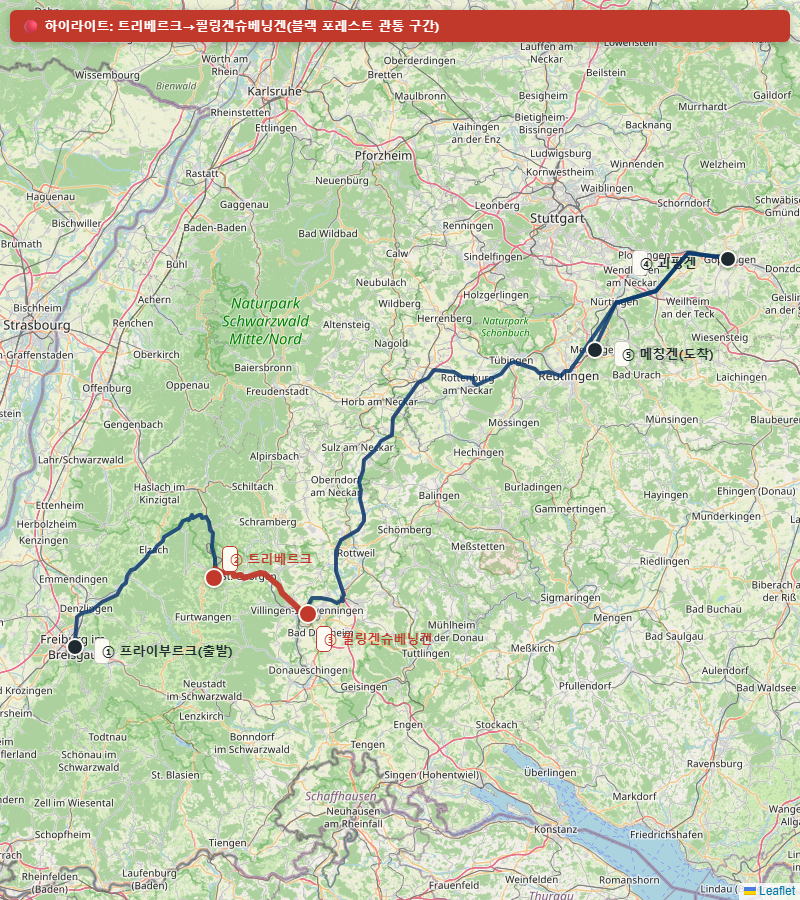
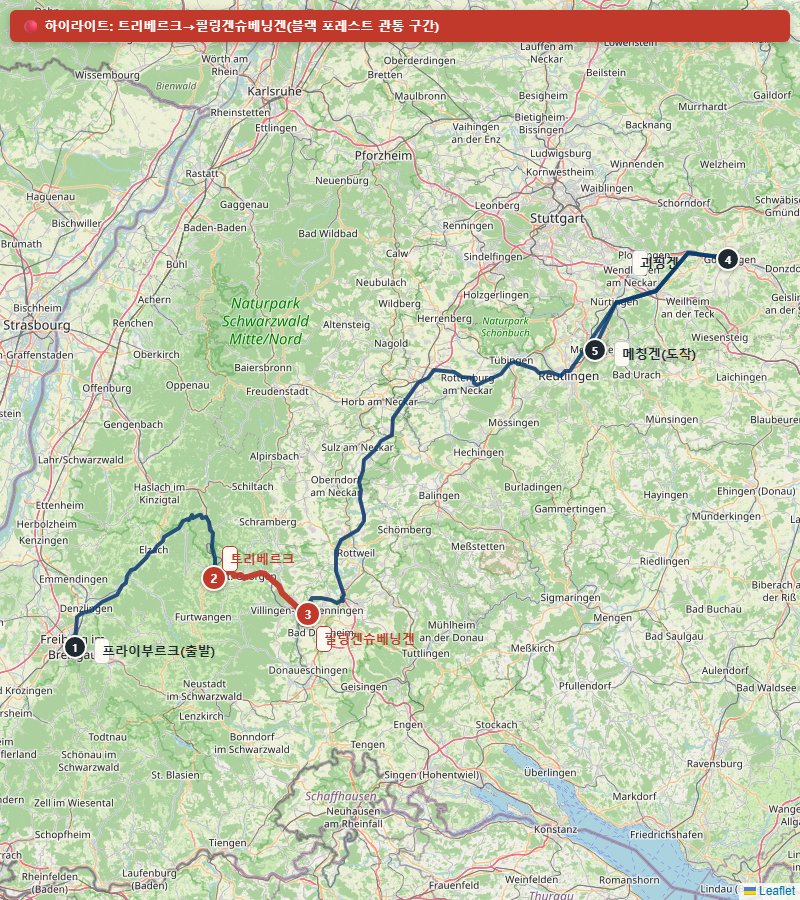
블랙 포레스트 안 지도 번호 렌더링 방식 근본 수정 — 유니코드 원문자 대신 CSS 원형+일반 숫자로 교체
기존에는 도시 이름표 텍스트 안에 유니코드 원문자(①②③...)를 그대로 넣어뒀는데, 이 글자가 기기·폰트에 따라 이모지 스타일의 큰 그림문자로 렌더링되면서 라벨 박스 padding/line-height를 무시하고 위아래로 삐져나와 "중간이 잘린 것처럼" 보이는 문제가 있었음(데스크톱 크롬에서는 작게 렌더링돼 재현이 안 됐음). 번호를 핀 마커 자체에 넣은 CSS 원형 배지(1,2,3 평문 숫자)로 옮기고, 도시 이름표에서는 원문자를 완전히 제거해 폰트 의존성을 없앰.

diff --git a/germany-roadtrip-planner.html b/germany-roadtrip-planner.html
@@ -3583,7 +3583,7 @@ document.addEventListener('DOMContentLoaded', function(){
       <div style="border:1px solid var(--line);border-radius:var(--radius);overflow:hidden;margin-bottom:0.8rem;">
         <div style="padding:0.4rem 1rem;background:#6a3d9a;color:#fff;font-weight:800;font-size:0.86rem;">안 1(가볍게 걷기) · 프라이부르크 → 트리베르크(폭포 산책) → 필링겐슈베닝겐 → 괴핑겐 → 메칭겐</div>
         <div style="border-bottom:1px solid var(--line);">
-          <img src="images/routes/day6_opt1.png?v=4" alt="안1 동선 지도 — 프라이부르크에서 트리베르크·필링겐슈베닝겐을 거쳐 괴핑겐·메칭겐까지, 트리베르크 폭포에서 가볍게 산책 후 필링겐슈베닝겐 방면 이동(안2와 동일 경로)" loading="lazy" style="width:100%;height:auto;display:block;" width="800" height="900">
+          <img src="images/routes/day6_opt1.png?v=5" alt="안1 동선 지도 — 프라이부르크에서 트리베르크·필링겐슈베닝겐을 거쳐 괴핑겐·메칭겐까지, 트리베르크 폭포에서 가볍게 산책 후 필링겐슈베닝겐 방면 이동(안2와 동일 경로)" loading="lazy" style="width:100%;height:auto;display:block;" width="800" height="900">
         </div>
         <div style="padding:0.8rem 1rem;">
           <p class="food-loc">경로 자체는 아래 안2(기준안)와 완전히 동일 — B31로 <a href="https://www.google.com/maps/search/?api=1&query=Triberg" target="_blank" rel="noopener">트리베르크(Triberg)</a>까지 간 뒤 A81 방면으로 <a href="https://www.google.com/maps/search/?api=1&query=Villingen-Schwenningen" target="_blank" rel="noopener">필링겐슈베닝겐</a>을 지나 직행합니다. 차이는 트리베르크에서 차만 세우고 지나치지 않고, <a href="https://www.google.com/maps/search/?api=1&query=Triberger+Wasserfälle" target="_blank" rel="noopener">트리베르크 폭포(Triberger Wasserfälle, 독일에서 가장 높은 폭포·163m 7단 낙차)</a>를 가볍게 걷는다는 점뿐입니다. 주차장에서 매표소를 지나 첫 번째~두 번째 전망대까지 왕복하는 짧은 구간만 걸으면 되고, 전체 코스를 끝까지 오를 필요는 없습니다.</p>
@@ -3595,7 +3595,7 @@ document.addEventListener('DOMContentLoaded', function(){
       <div style="border:1px solid var(--line);border-radius:var(--radius);overflow:hidden;margin-bottom:0.8rem;">
         <div style="padding:0.4rem 1rem;background:#0b3c6e;color:#fff;font-weight:800;font-size:0.86rem;">안 2(기준안) · 프라이부르크 → 트리베르크 → 필링겐슈베닝겐 → 괴핑겐 → 메칭겐</div>
         <div style="border-bottom:1px solid var(--line);">
-          <img src="images/routes/day6_opt1.png?v=4" alt="안2 동선 지도 — 프라이부르크에서 트리베르크·필링겐슈베닝겐을 거쳐 괴핑겐·메칭겐까지, 트리베르크~필링겐슈베닝겐 블랙 포레스트 관통 구간 하이라이트" loading="lazy" style="width:100%;height:auto;display:block;" width="800" height="900">
+          <img src="images/routes/day6_opt1.png?v=5" alt="안2 동선 지도 — 프라이부르크에서 트리베르크·필링겐슈베닝겐을 거쳐 괴핑겐·메칭겐까지, 트리베르크~필링겐슈베닝겐 블랙 포레스트 관통 구간 하이라이트" loading="lazy" style="width:100%;height:auto;display:block;" width="800" height="900">
         </div>
         <div style="padding:0.8rem 1rem;">
           <p class="food-loc">블랙 포레스트 관광도로 4곳 중 어느 것도 정식으로 타지 않고, B31로 <a href="https://www.google.com/maps/search/?api=1&query=Triberg" target="_blank" rel="noopener">트리베르크(Triberg)</a>까지 간 뒤 A81 방면으로 <a href="https://www.google.com/maps/search/?api=1&query=Villingen-Schwenningen" target="_blank" rel="noopener">필링겐슈베닝겐(Villingen-Schwenningen)</a>을 지나 직행합니다. 하이라이트 구간(지도의 빨간 선)은 <b>시작 트리베르크 → 도착 필링겐슈베닝겐</b>이며, 그 자체가 &ldquo;블랙 포레스트 관통 구간&rdquo;입니다. 필링겐슈베닝겐은 도이체 우렌슈트라세 순환의 시작점이기도 해서, 그 루프를 정식으로 돌지 않아도 살짝 스치듯 지나갑니다.</p>
@@ -3607,7 +3607,7 @@ document.addEventListener('DOMContentLoaded', function(){
       <div style="border:1px solid var(--line);border-radius:var(--radius);overflow:hidden;margin-bottom:0.8rem;">
         <div style="padding:0.4rem 1rem;background:#2d6a4f;color:#fff;font-weight:800;font-size:0.86rem;">안 3(추천) · 프라이부르크 → 장크트메르겐 → 푸르트방겐 → 트리베르크 → 필링겐슈베닝겐 → 괴핑겐 → 메칭겐</div>
         <div style="border-bottom:1px solid var(--line);">
-          <img src="images/routes/day6_opt2.png?v=4" alt="안3 동선 지도 — 프라이부르크에서 장크트메르겐·푸르트방겐을 거쳐 트리베르크로 진입, 이후 필링겐슈베닝겐·괴핑겐·메칭겐까지, 장크트메르겐~트리베르크 구간 하이라이트" loading="lazy" style="width:100%;height:auto;display:block;" width="800" height="900">
+          <img src="images/routes/day6_opt2.png?v=5" alt="안3 동선 지도 — 프라이부르크에서 장크트메르겐·푸르트방겐을 거쳐 트리베르크로 진입, 이후 필링겐슈베닝겐·괴핑겐·메칭겐까지, 장크트메르겐~트리베르크 구간 하이라이트" loading="lazy" style="width:100%;height:auto;display:block;" width="800" height="900">
         </div>
         <div style="padding:0.8rem 1rem;">
           <p class="food-loc">트리베르크로 바로 가지 않고, 도이체 우렌슈트라세의 서쪽 절반을 먼저 돕니다. 하이라이트 구간(지도의 빨간 선)은 <b>시작 프라이부르크 → 경유 장크트메르겐(St. Märgen) → 경유 푸르트방겐(Furtwangen) → 도착 트리베르크</b>입니다. 시간 되면 장크트메르겐 인근 <a href="https://www.google.com/maps/search/?api=1&query=Sankt+Peter+Schwarzwald" target="_blank" rel="noopener">장크트페터(St. Peter)</a>(약 4.8km 더, 베네딕토회 수도원으로 유명)도 살짝 들를 수 있습니다.</p>
@@ -3619,7 +3619,7 @@ document.addEventListener('DOMContentLoaded', function(){
       <div style="border:1px solid var(--line);border-radius:var(--radius);overflow:hidden;">
         <div style="padding:0.4rem 1rem;background:#c0392b;color:#fff;font-weight:800;font-size:0.86rem;">안 4(전망 중시, 트리베르크 생략) · 프라이부르크 → 프로이덴슈타트 → 루에슈타인 → 무멜제 → 괴핑겐 → 메칭겐</div>
         <div style="border-bottom:1px solid var(--line);">
-          <img src="images/routes/day6_opt3.png?v=4" alt="안4 동선 지도 — 프라이부르크에서 프로이덴슈타트·루에슈타인·무멜제(호흐슈트라세 B500)를 거쳐 괴핑겐·메칭겐까지, 트리베르크는 생략" loading="lazy" style="width:100%;height:auto;display:block;" width="800" height="1000">
+          <img src="images/routes/day6_opt3.png?v=5" alt="안4 동선 지도 — 프라이부르크에서 프로이덴슈타트·루에슈타인·무멜제(호흐슈트라세 B500)를 거쳐 괴핑겐·메칭겐까지, 트리베르크는 생략" loading="lazy" style="width:100%;height:auto;display:block;" width="800" height="1000">
         </div>
         <div style="padding:0.8rem 1rem;">
           <p class="food-loc">트리베르크는 포기하고, 4곳 중 가장 유명한 슈바르츠발트-호흐슈트라세(B500)의 남쪽 절반만 탑니다. 하이라이트 구간(지도의 빨간 선)은 <b>시작 프라이부르크 → 경유 프로이덴슈타트(Freudenstadt) → 경유 루에슈타인(Ruhestein) → 도착 무멜제(Mummelsee)</b>입니다 — 무멜제는 전설이 깃든 화산 분화구 호수로, B500에서 가장 사진 많이 찍히는 포토스팟입니다. 이후 왔던 길을 되짚어 프로이덴슈타트 인근에서 동쪽으로 빠져 괴핑겐으로 향합니다.</p>

diff --git a/index.html b/index.html
@@ -3583,7 +3583,7 @@ document.addEventListener('DOMContentLoaded', function(){
       <div style="border:1px solid var(--line);border-radius:var(--radius);overflow:hidden;margin-bottom:0.8rem;">
         <div style="padding:0.4rem 1rem;background:#6a3d9a;color:#fff;font-weight:800;font-size:0.86rem;">안 1(가볍게 걷기) · 프라이부르크 → 트리베르크(폭포 산책) → 필링겐슈베닝겐 → 괴핑겐 → 메칭겐</div>
         <div style="border-bottom:1px solid var(--line);">
-          <img src="images/routes/day6_opt1.png?v=4" alt="안1 동선 지도 — 프라이부르크에서 트리베르크·필링겐슈베닝겐을 거쳐 괴핑겐·메칭겐까지, 트리베르크 폭포에서 가볍게 산책 후 필링겐슈베닝겐 방면 이동(안2와 동일 경로)" loading="lazy" style="width:100%;height:auto;display:block;" width="800" height="900">
+          <img src="images/routes/day6_opt1.png?v=5" alt="안1 동선 지도 — 프라이부르크에서 트리베르크·필링겐슈베닝겐을 거쳐 괴핑겐·메칭겐까지, 트리베르크 폭포에서 가볍게 산책 후 필링겐슈베닝겐 방면 이동(안2와 동일 경로)" loading="lazy" style="width:100%;height:auto;display:block;" width="800" height="900">
         </div>
         <div style="padding:0.8rem 1rem;">
           <p class="food-loc">경로 자체는 아래 안2(기준안)와 완전히 동일 — B31로 <a href="https://www.google.com/maps/search/?api=1&query=Triberg" target="_blank" rel="noopener">트리베르크(Triberg)</a>까지 간 뒤 A81 방면으로 <a href="https://www.google.com/maps/search/?api=1&query=Villingen-Schwenningen" target="_blank" rel="noopener">필링겐슈베닝겐</a>을 지나 직행합니다. 차이는 트리베르크에서 차만 세우고 지나치지 않고, <a href="https://www.google.com/maps/search/?api=1&query=Triberger+Wasserfälle" target="_blank" rel="noopener">트리베르크 폭포(Triberger Wasserfälle, 독일에서 가장 높은 폭포·163m 7단 낙차)</a>를 가볍게 걷는다는 점뿐입니다. 주차장에서 매표소를 지나 첫 번째~두 번째 전망대까지 왕복하는 짧은 구간만 걸으면 되고, 전체 코스를 끝까지 오를 필요는 없습니다.</p>
@@ -3595,7 +3595,7 @@ document.addEventListener('DOMContentLoaded', function(){
       <div style="border:1px solid var(--line);border-radius:var(--radius);overflow:hidden;margin-bottom:0.8rem;">
         <div style="padding:0.4rem 1rem;background:#0b3c6e;color:#fff;font-weight:800;font-size:0.86rem;">안 2(기준안) · 프라이부르크 → 트리베르크 → 필링겐슈베닝겐 → 괴핑겐 → 메칭겐</div>
         <div style="border-bottom:1px solid var(--line);">
-          <img src="images/routes/day6_opt1.png?v=4" alt="안2 동선 지도 — 프라이부르크에서 트리베르크·필링겐슈베닝겐을 거쳐 괴핑겐·메칭겐까지, 트리베르크~필링겐슈베닝겐 블랙 포레스트 관통 구간 하이라이트" loading="lazy" style="width:100%;height:auto;display:block;" width="800" height="900">
+          <img src="images/routes/day6_opt1.png?v=5" alt="안2 동선 지도 — 프라이부르크에서 트리베르크·필링겐슈베닝겐을 거쳐 괴핑겐·메칭겐까지, 트리베르크~필링겐슈베닝겐 블랙 포레스트 관통 구간 하이라이트" loading="lazy" style="width:100%;height:auto;display:block;" width="800" height="900">
         </div>
         <div style="padding:0.8rem 1rem;">
           <p class="food-loc">블랙 포레스트 관광도로 4곳 중 어느 것도 정식으로 타지 않고, B31로 <a href="https://www.google.com/maps/search/?api=1&query=Triberg" target="_blank" rel="noopener">트리베르크(Triberg)</a>까지 간 뒤 A81 방면으로 <a href="https://www.google.com/maps/search/?api=1&query=Villingen-Schwenningen" target="_blank" rel="noopener">필링겐슈베닝겐(Villingen-Schwenningen)</a>을 지나 직행합니다. 하이라이트 구간(지도의 빨간 선)은 <b>시작 트리베르크 → 도착 필링겐슈베닝겐</b>이며, 그 자체가 &ldquo;블랙 포레스트 관통 구간&rdquo;입니다. 필링겐슈베닝겐은 도이체 우렌슈트라세 순환의 시작점이기도 해서, 그 루프를 정식으로 돌지 않아도 살짝 스치듯 지나갑니다.</p>
@@ -3607,7 +3607,7 @@ document.addEventListener('DOMContentLoaded', function(){
       <div style="border:1px solid var(--line);border-radius:var(--radius);overflow:hidden;margin-bottom:0.8rem;">
         <div style="padding:0.4rem 1rem;background:#2d6a4f;color:#fff;font-weight:800;font-size:0.86rem;">안 3(추천) · 프라이부르크 → 장크트메르겐 → 푸르트방겐 → 트리베르크 → 필링겐슈베닝겐 → 괴핑겐 → 메칭겐</div>
         <div style="border-bottom:1px solid var(--line);">
-          <img src="images/routes/day6_opt2.png?v=4" alt="안3 동선 지도 — 프라이부르크에서 장크트메르겐·푸르트방겐을 거쳐 트리베르크로 진입, 이후 필링겐슈베닝겐·괴핑겐·메칭겐까지, 장크트메르겐~트리베르크 구간 하이라이트" loading="lazy" style="width:100%;height:auto;display:block;" width="800" height="900">
+          <img src="images/routes/day6_opt2.png?v=5" alt="안3 동선 지도 — 프라이부르크에서 장크트메르겐·푸르트방겐을 거쳐 트리베르크로 진입, 이후 필링겐슈베닝겐·괴핑겐·메칭겐까지, 장크트메르겐~트리베르크 구간 하이라이트" loading="lazy" style="width:100%;height:auto;display:block;" width="800" height="900">
         </div>
         <div style="padding:0.8rem 1rem;">
           <p class="food-loc">트리베르크로 바로 가지 않고, 도이체 우렌슈트라세의 서쪽 절반을 먼저 돕니다. 하이라이트 구간(지도의 빨간 선)은 <b>시작 프라이부르크 → 경유 장크트메르겐(St. Märgen) → 경유 푸르트방겐(Furtwangen) → 도착 트리베르크</b>입니다. 시간 되면 장크트메르겐 인근 <a href="https://www.google.com/maps/search/?api=1&query=Sankt+Peter+Schwarzwald" target="_blank" rel="noopener">장크트페터(St. Peter)</a>(약 4.8km 더, 베네딕토회 수도원으로 유명)도 살짝 들를 수 있습니다.</p>
@@ -3619,7 +3619,7 @@ document.addEventListener('DOMContentLoaded', function(){
       <div style="border:1px solid var(--line);border-radius:var(--radius);overflow:hidden;">
         <div style="padding:0.4rem 1rem;background:#c0392b;color:#fff;font-weight:800;font-size:0.86rem;">안 4(전망 중시, 트리베르크 생략) · 프라이부르크 → 프로이덴슈타트 → 루에슈타인 → 무멜제 → 괴핑겐 → 메칭겐</div>
         <div style="border-bottom:1px solid var(--line);">
-          <img src="images/routes/day6_opt3.png?v=4" alt="안4 동선 지도 — 프라이부르크에서 프로이덴슈타트·루에슈타인·무멜제(호흐슈트라세 B500)를 거쳐 괴핑겐·메칭겐까지, 트리베르크는 생략" loading="lazy" style="width:100%;height:auto;display:block;" width="800" height="1000">
+          <img src="images/routes/day6_opt3.png?v=5" alt="안4 동선 지도 — 프라이부르크에서 프로이덴슈타트·루에슈타인·무멜제(호흐슈트라세 B500)를 거쳐 괴핑겐·메칭겐까지, 트리베르크는 생략" loading="lazy" style="width:100%;height:auto;display:block;" width="800" height="1000">
         </div>
         <div style="padding:0.8rem 1rem;">
           <p class="food-loc">트리베르크는 포기하고, 4곳 중 가장 유명한 슈바르츠발트-호흐슈트라세(B500)의 남쪽 절반만 탑니다. 하이라이트 구간(지도의 빨간 선)은 <b>시작 프라이부르크 → 경유 프로이덴슈타트(Freudenstadt) → 경유 루에슈타인(Ruhestein) → 도착 무멜제(Mummelsee)</b>입니다 — 무멜제는 전설이 깃든 화산 분화구 호수로, B500에서 가장 사진 많이 찍히는 포토스팟입니다. 이후 왔던 길을 되짚어 프로이덴슈타트 인근에서 동쪽으로 빠져 괴핑겐으로 향합니다.</p>
